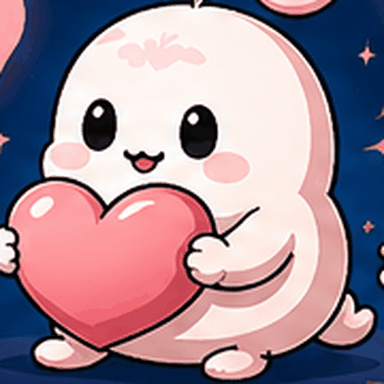
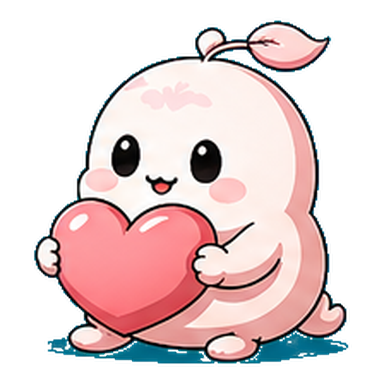
隠しジロー7体を、単色背景のシートから切り抜き直す
Kaiが背景を #0193B5 の完全な単色で作り直してくれた。
前回は濃紺(#001B44)で、紫のフード・黒スーツ・濃い緑と色が近く、
機械的に区別できずキャラが崩れていた。

- 元のシートの原寸から、背景色との距離で塊を拾う
- 上位7つの塊がそのまま7体（カードや文字は混ざらない）
- 既存キャラと同じ「同じ割合の余白」で384pxに収める
- 7体とも ふちの不透明度0（見切れなし）／顔の不透明度255（透けなし）
- 1体ずつ目視でも確認（小道具・衣装が全て残っている）

ホーム画面・ポップアップとも丸枠をやめ、階級キャラと同じ置き方に統一。

diff --git a/index.html b/index.html
@@ -1486,13 +1486,13 @@ function JiroFoundModal() {
                         border:`1px solid color-mix(in srgb, ${c} 40%, transparent)`,
                         borderRadius:20,padding:"5px 12px",marginBottom:14,lineHeight:1.5}}>
             ${j.cond} を達成</div>`}
-        <div style=${{position:"relative",width:150,height:150,margin:"0 auto 14px",borderRadius:"50%",
-                      overflow:"hidden",border:`3px solid ${c}`,
-                      boxShadow:`0 8px 26px color-mix(in srgb, ${c} 45%, transparent)`}}>
+        <!-- 背景は抜いてあるので、枠に入れず絵をそのまま大きく置く（2026-08-06） -->
+        <div style=${{position:"relative",width:172,height:172,margin:"0 auto 10px"}}>
           ${j.art
             ? html`<img src=${j.art+"?v="+APP_BUILD} alt=${g.name}
                      style=${{position:"absolute",inset:0,width:"100%",height:"100%",
-                              objectFit:"cover",display:"block"}}/>`
+                              objectFit:"contain",display:"block",
+                              filter:`drop-shadow(0 8px 18px color-mix(in srgb, ${c} 40%, transparent))`}}/>`
             : html`<div style=${{position:"absolute",inset:0,display:"flex",alignItems:"center",
                                  justifyContent:"center",fontSize:44,color:"var(--border)"}}>?</div>`}
         </div>
@@ -3495,19 +3495,11 @@ function HomeScreen({goalData, onGoalSaved, profile, isActive, showInCommunity, 
         return html`
         <div style=${{display:"flex",alignItems:"center",gap:11,marginBottom:14}}>
           ${art
-            ? (useFeat
-              /* 隠しジローは正方形の絵なので、丸く切って枠に収める。
-                 階級のキャラは背景が抜いてあるのでそのまま置く（2026-08-06） */
-              ? html`<span style=${{position:"relative",flexShrink:0,width:96,height:96,
-                                    borderRadius:"50%",overflow:"hidden",display:"block",
-                                    border:"2px solid rgba(255,255,255,0.55)",
-                                    boxShadow:"0 4px 14px rgba(0,0,0,0.25)",marginRight:4}}>
-                  <img src=${art} alt=${featJ.name} width="96" height="96"
-                    style=${{width:"100%",height:"100%",objectFit:"cover",display:"block"}}/>
-                </span>`
-              : html`<img src=${art} alt=${rank?rank.name:""} width="118" height="118"
+            /* 隠しジローも背景を抜いてあるので、階級のキャラと同じ置き方にする
+               （2026-08-06 Kai指摘。丸枠にすると階級のときと形が変わって落ち着かない） */
+            ? html`<img src=${art} alt=${useFeat?featJ.name:(rank?rank.name:"")} width="118" height="118"
                      style=${{width:118,height:118,objectFit:"contain",display:"block",flexShrink:0,
-                              marginTop:-14,marginBottom:-14,marginLeft:-12,marginRight:-6}}/>`)
+                              marginTop:-14,marginBottom:-14,marginLeft:-12,marginRight:-6}}/>`
             : html`<div style=${{width:56,height:56,borderRadius:"50%",background:"rgba(255,255,255,0.2)",
                                  display:"flex",alignItems:"center",justifyContent:"center",
                                  fontSize:28,flexShrink:0}}>${profile?.avatar||"🦊"}</div>`}
@@ -10342,7 +10334,7 @@ function dueLabel(dueAt, overdue){
 // ★このファイルの版★
 // 更新検知に使う。index.html を変えたら必ずここも変える
 // （スモークテストが、変え忘れたら落とす）。
-const APP_BUILD = "20260806-120741";
+const APP_BUILD = "20260806-123802";
 
 const GOOGLE_CLIENT_ID = "476804060858-n3afj7ipmc81vq8cq71u0u3jdpolshea.apps.googleusercontent.com";
 
